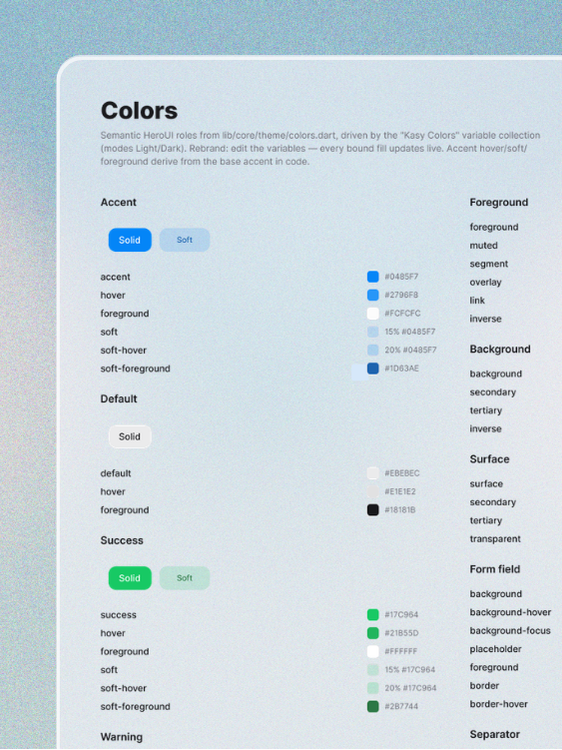
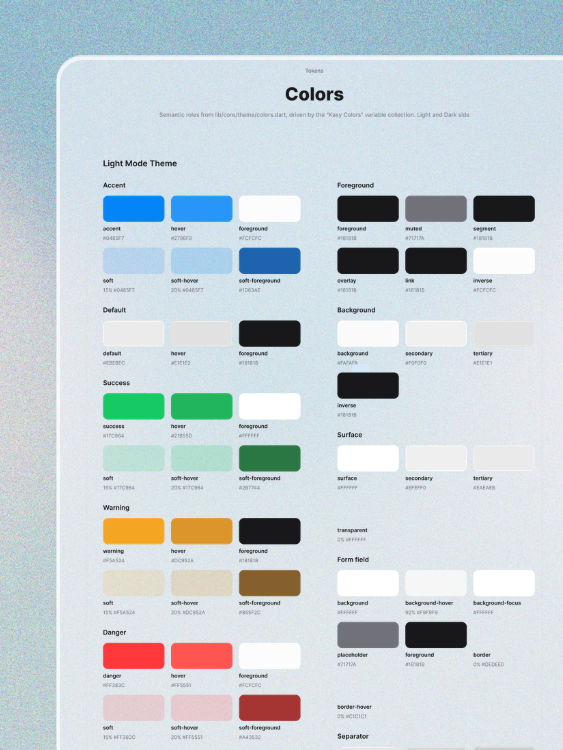
Update feature card screenshots for branding and preview.
Refresh cards 02 and 03 with new design system and device preview images, and align the branding card mobile aspect ratio.

diff --git a/src/components/sections/feature-hover-cards.tsx b/src/components/sections/feature-hover-cards.tsx
@@ -28,7 +28,7 @@ const CARDS_META = [
     num: "02",
     image: "/assets/feature-branding.png",
     unoptimized: true,
-    mobileImageClassName: "max-sm:aspect-[562/750] max-sm:h-auto",
+    mobileImageClassName: "max-sm:aspect-[563/750] max-sm:h-auto",
     imageClassName: "object-cover object-top",
   },
   {